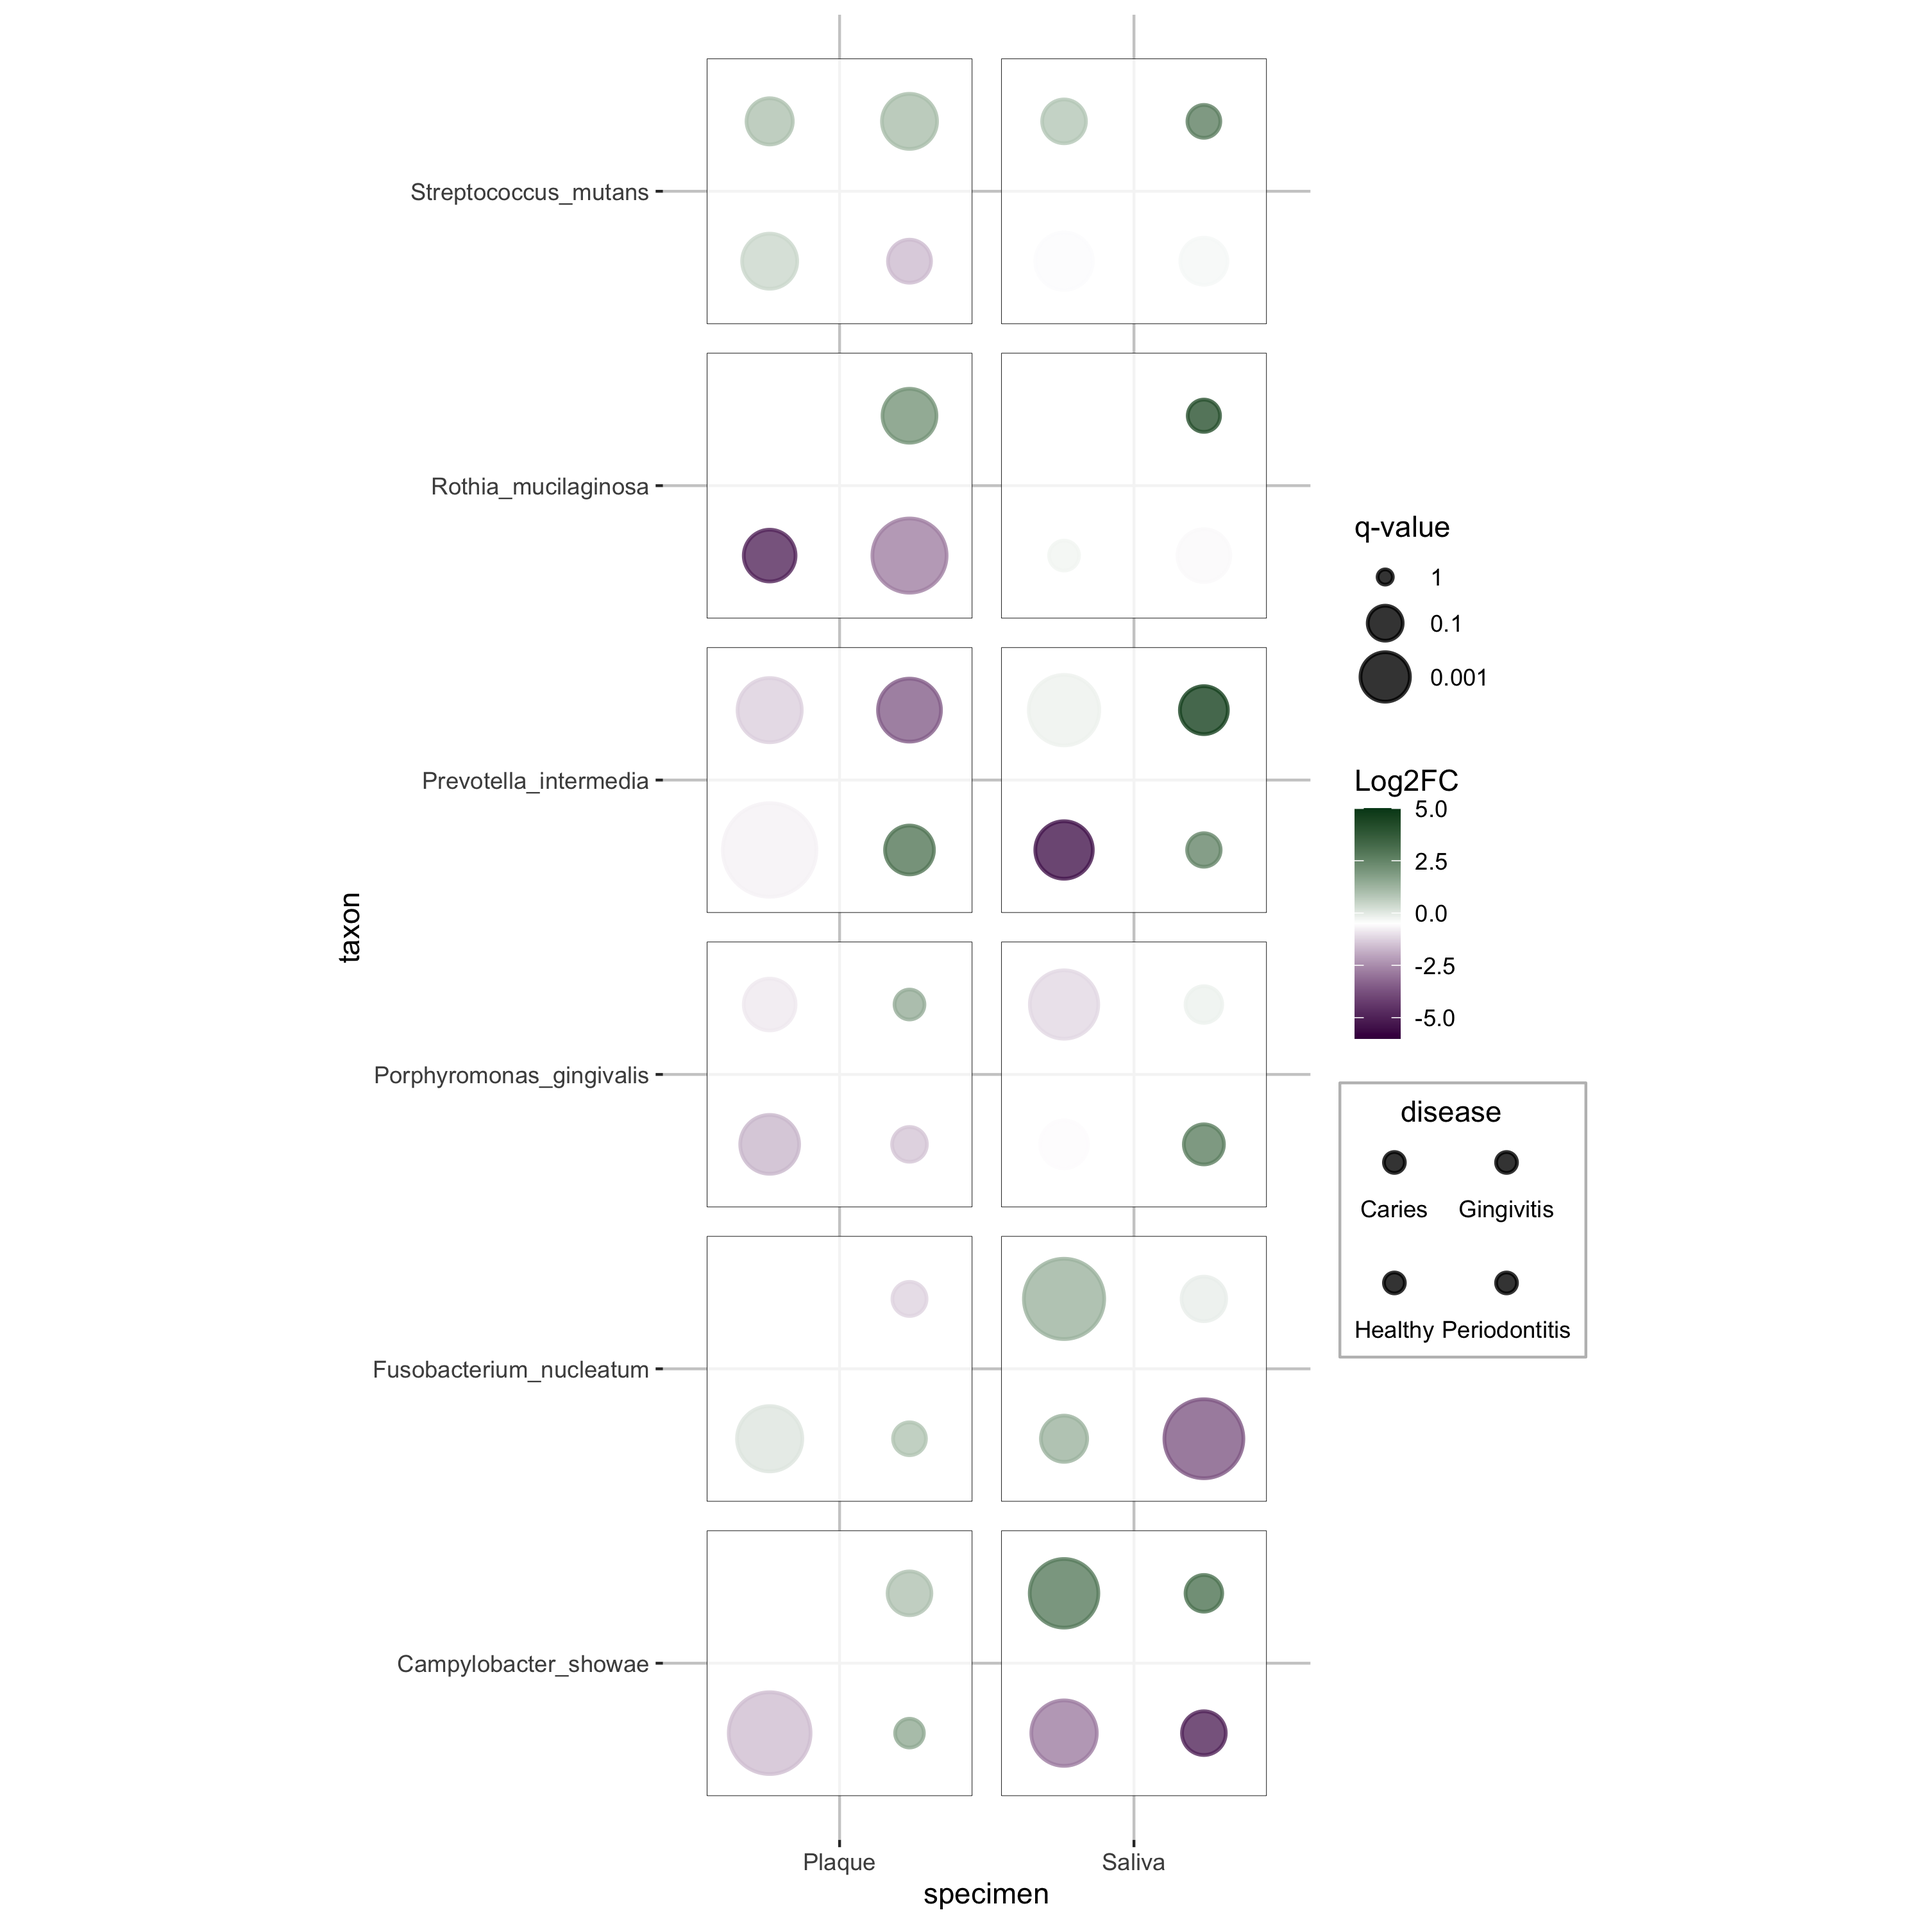
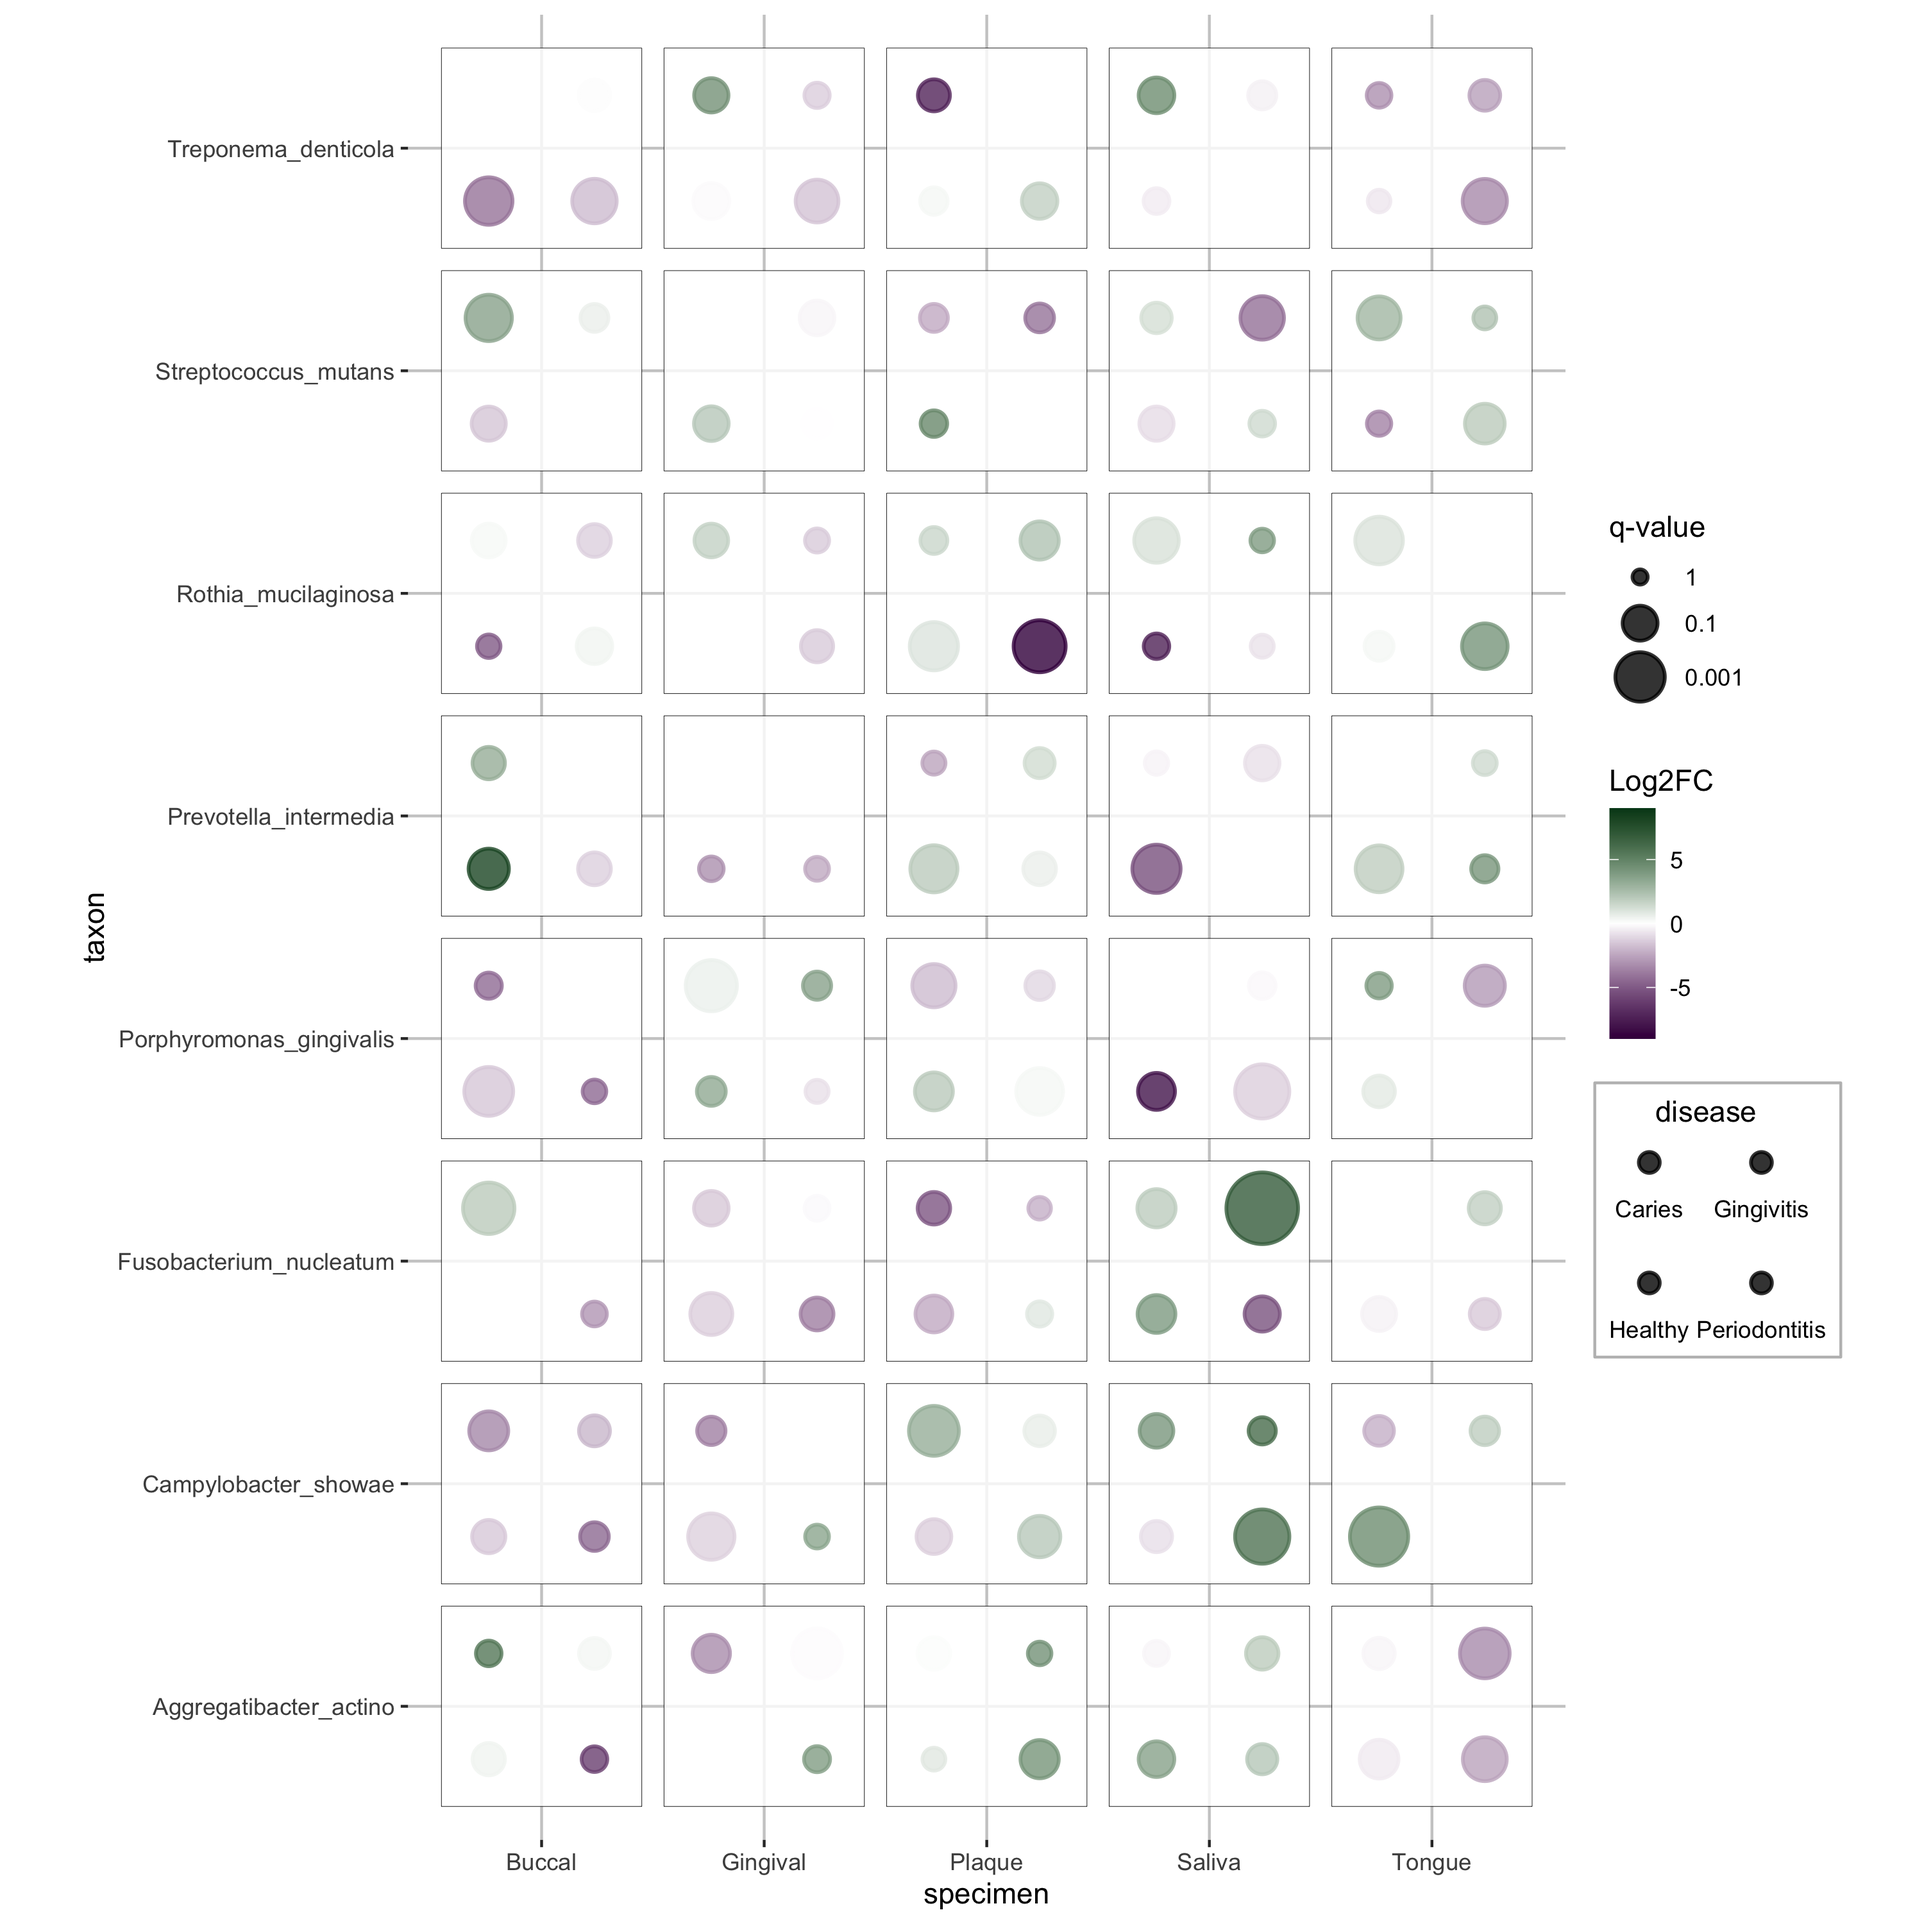
clean up for cran upload

diff --git a/README.md b/README.md
@@ -27,8 +27,8 @@ install.packages(c("ggdiceplot"))
 library(ggplot2)
 library(ggdiceplot)
 
-data("sample_dice_data1", package = "ggdiceplot")
-toy_data <- sample_dice_data1
+data("sample_dice_data2", package = "ggdiceplot")
+toy_data <- sample_dice_data2
 
 lo      <- floor(min(toy_data$lfc, na.rm = TRUE))
 up      <- ceiling(max(toy_data$lfc, na.rm = TRUE))
@@ -61,7 +61,7 @@ ggplot(toy_data, aes(x = specimen, y = taxon)) +
   )
 ```
 
-![](demo_output/example1.png)
+![](demo_output/example2.png)
 
 ## Example: miRNA dysregulation
 
